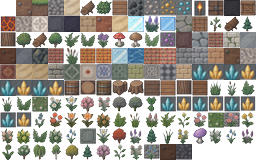
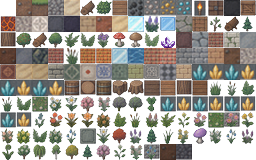
tweak(dig): crystal_amethyst reverts to the 12.png art (USER: 紫水晶矿用原来的那套贴图)
The user-cut 紫水晶矿 art read poorly in-game; slot 42 now uses the
original 12.png amethyst (which also reads better next to its 0.35
light + purple glow). Light data untouched. Bump tiles.meta.js v=14.

Changed region(s): [[0.625, 0.1875, 0.6875, 0.3125]]

diff --git a/website/index.html b/website/index.html
@@ -310,7 +310,7 @@ tests/test_invoice.py <span class="s">......</span>  <span class="m">[ 18/1070 ]
 
 <script src="js/main.js"></script>
 <script src="js/pet.js"></script>
-<script src="assets/mc/tiles.meta.js?v=13"></script>
+<script src="assets/mc/tiles.meta.js?v=14"></script>
 <script src="js/worldgen.js?v=20"></script>
 <script src="js/vendor/phaser.min.js"></script>
 <script src="js/game2.js?v=252"></script>
